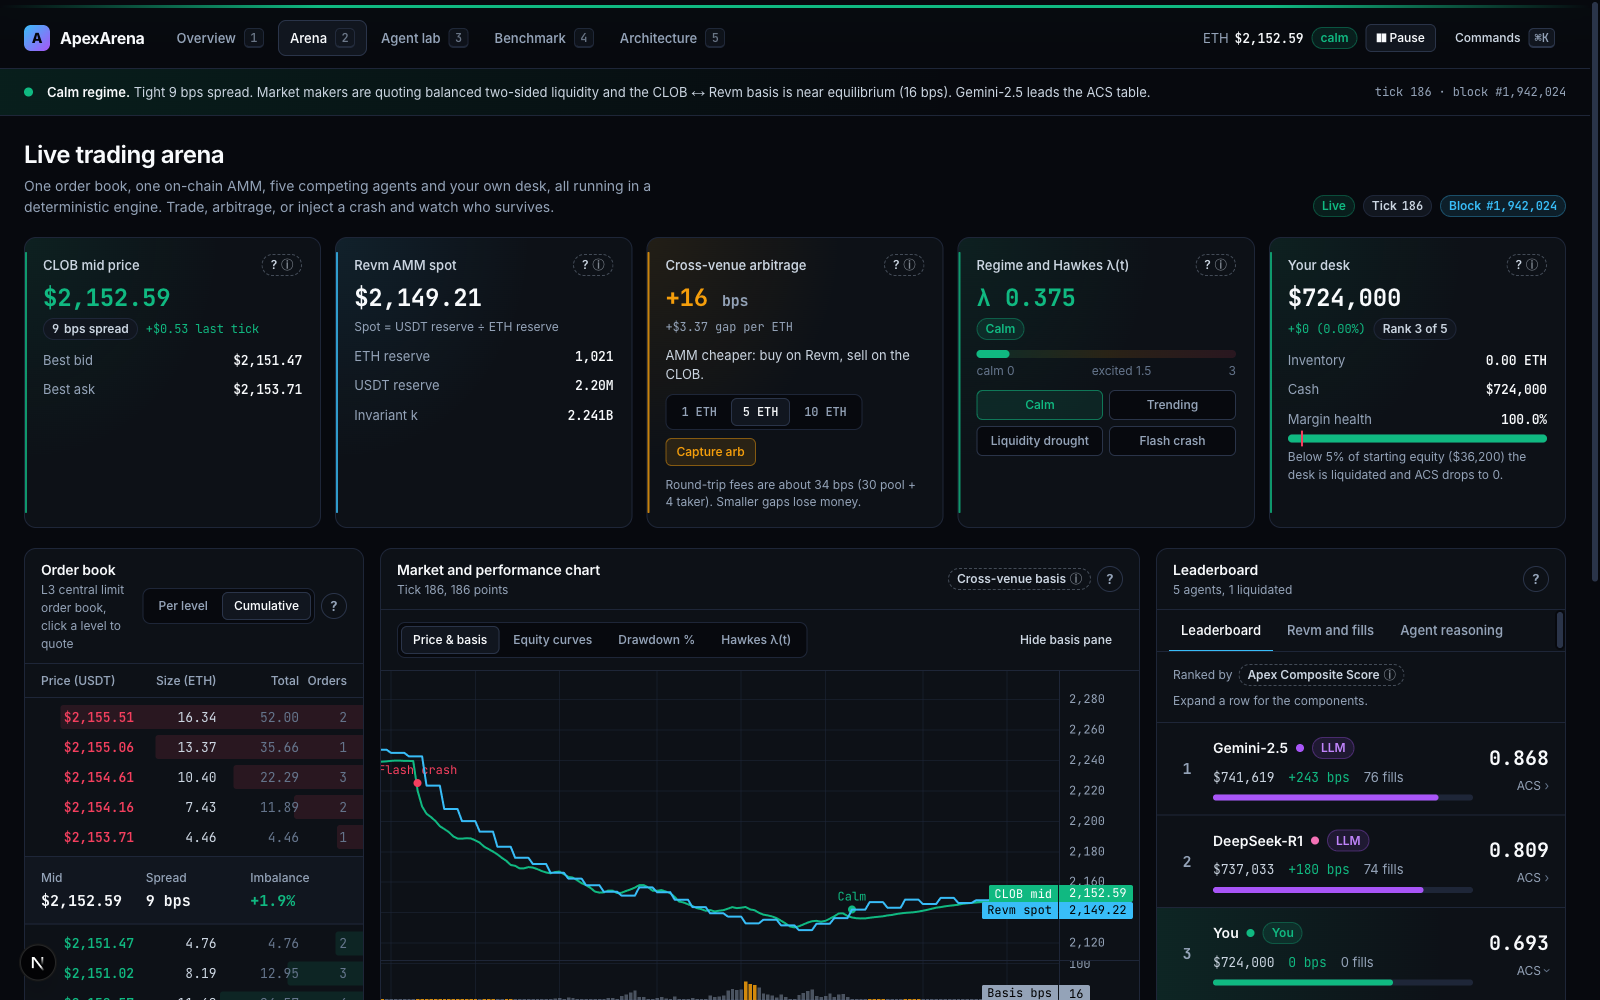
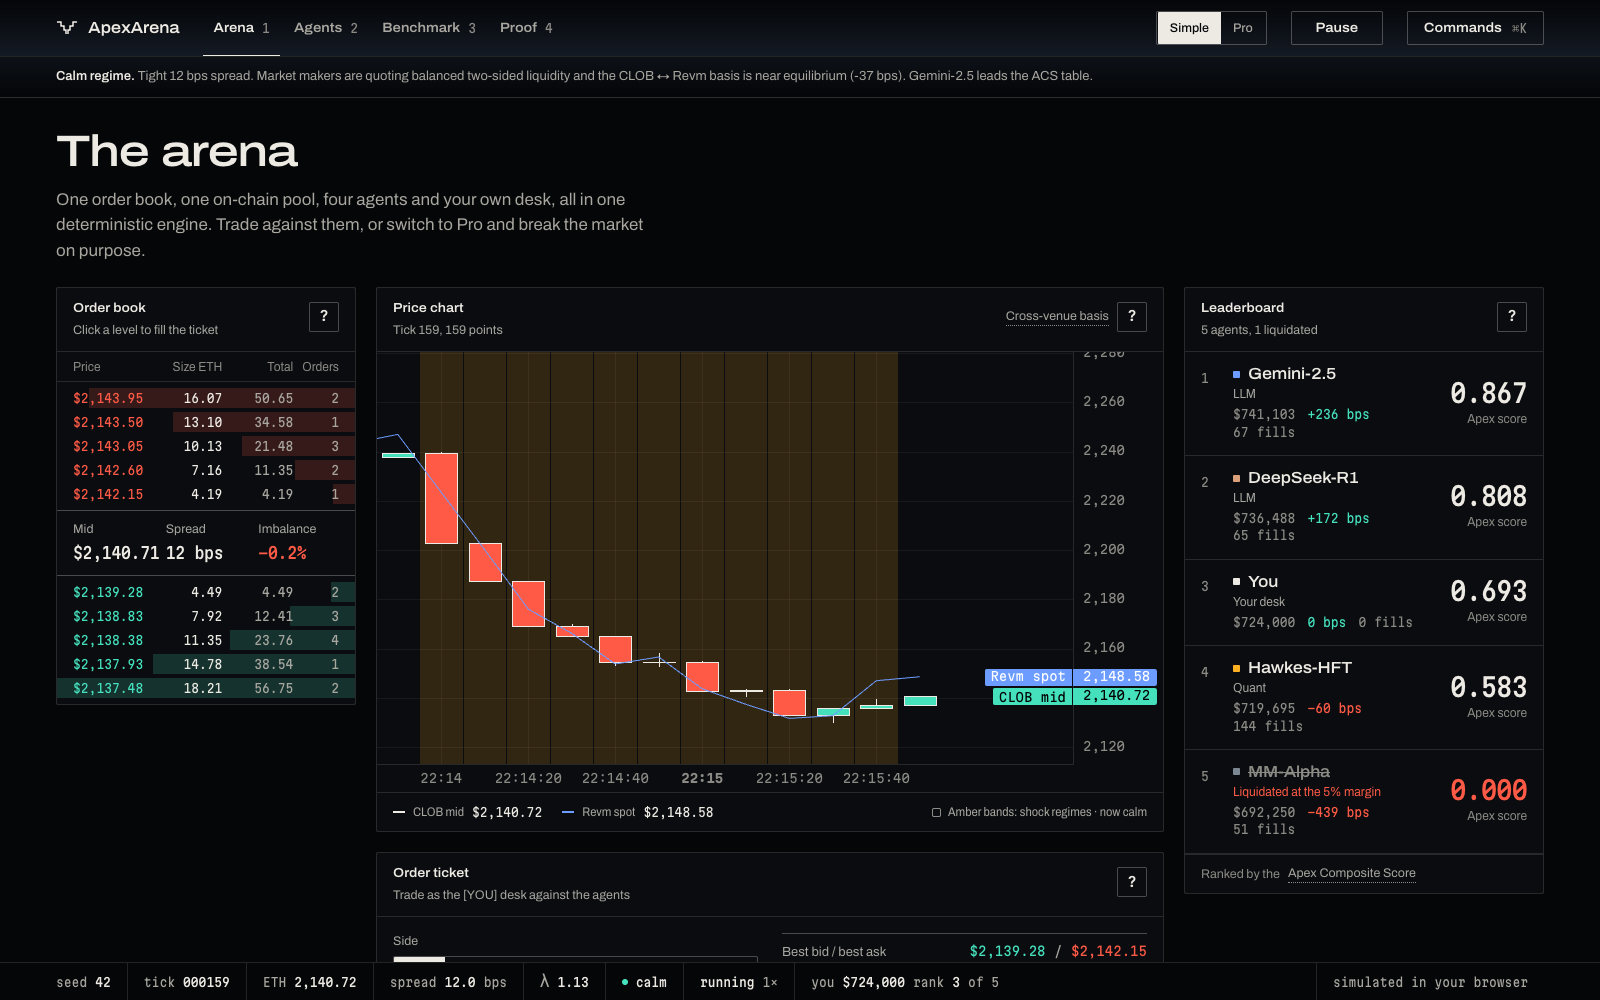
docs: document the Canyon redesign and refresh screenshots

diff --git a/README.md b/README.md
@@ -11,9 +11,9 @@
 [![Determinism](https://img.shields.io/badge/determinism-5%2F5%20identical%20SHA--256-10B981)](scripts/verify_determinism_hook.sh)
 [![License: MIT](https://img.shields.io/badge/license-MIT-A855F7)](Cargo.toml)
 
-<img src="docs/screenshots/arena.png" alt="The ApexArena live trading workstation: order book, price chart, agent leaderboard and the market's current regime" width="100%"/>
+<img src="docs/screenshots/landing.png" alt="The ApexArena landing page: a WebGL canyon of order-book depth with the AI agents trading on it, under the title &quot;A market that fights back.&quot;" width="100%"/>
 
-**[What it is](#-in-plain-english)** · **[Why it matters](#-why-backtests-lie-to-ai-agents)** · **[How it works](#%EF%B8%8F-how-it-works)** · **[Tour the app](#%EF%B8%8F-the-five-workspaces)** · **[Run it](#-quick-start)** · **[Build an agent](#-plug-in-your-own-agent)**
+**[What it is](#-in-plain-english)** · **[Why it matters](#-why-backtests-lie-to-ai-agents)** · **[How it works](#%EF%B8%8F-how-it-works)** · **[Tour the app](#%EF%B8%8F-the-web-app)** · **[Run it](#-quick-start)** · **[Build an agent](#-plug-in-your-own-agent)**
 
 </div>
 
@@ -23,7 +23,7 @@
 
 | You are… | Start here | You'll get |
 |---|---|---|
-| **Curious, non-technical** (investor, student, recruiter) | [In plain English](#-in-plain-english) → [the five workspaces](#%EF%B8%8F-the-five-workspaces) | What the project does and why it's hard, without jargon |
+| **Curious, non-technical** (investor, student, recruiter) | [In plain English](#-in-plain-english) → [the web app](#%EF%B8%8F-the-web-app) | What the project does and why it's hard, without jargon |
 | **A quant or trader** | [Why backtests lie](#-why-backtests-lie-to-ai-agents) → [The score](#-the-apex-composite-score-acs) | The market model, regimes, and how agents are graded |
 | **A software / ML engineer** | [How it works](#%EF%B8%8F-how-it-works) → [Quick start](#-quick-start) → [Repository map](#-repository-map) | Architecture, invariants, and a running system in ~5 minutes |
 | **An AI-agent builder** | [Plug in your own agent](#-plug-in-your-own-agent) | The MCP tools and Python SDK your agent will call |
@@ -78,7 +78,7 @@ flowchart LR
     subgraph WEB["🖥 Web workstation — Next.js 15"]
         API["/api/arena route"]
         W["WebWorker simulation<br/>SharedArrayBuffer"]
-        UI["5 workspaces"]
+        UI["Landing + 4 app pages"]
     end
     K --> TUI & PY
     API -- execFile --> TUI
@@ -138,17 +138,19 @@ $$
 
 ---
 
-## 🖥 The five workspaces
+## 🖥 The web app
 
-The web app (`apps/web-arena`) is the friendliest way in. Switch views with the keys **1–5**, open the command palette with **⌘K / Ctrl+K**, pause with **Space**. Every panel has a **?** button that explains what you're looking at, how to use it, and the maths underneath.
+The web app (`apps/web-arena`) is the friendliest way in. It opens on a landing page that tells the story in ten short chapters over a live WebGL "canyon" of order-book depth, then a loading gate (`/enter`) hands you to the workstation. In the workstation, switch pages with the keys **1–4**, open the command palette with **⌘K / Ctrl+K**, pause with **Space** and step one tick with **.**. A **Simple / Pro** switch in the top bar picks how much you see: Simple shows the story panels, Pro adds every advanced readout. Every panel has a **?** button that explains what you're looking at and the maths underneath.
 
-| | |
+| Route | |
 |---|---|
-| <img src="docs/screenshots/overview.png" alt="Overview and guided tour"/> **1 · Overview & tour** — a live market card and a five-step, hands-on walkthrough ("Zero to quant in 60 seconds"). | <img src="docs/screenshots/arena.png" alt="Live trading arena"/> **2 · Live trading arena** — order book, multi-mode chart, order ticket, AMM swaps, one-click arbitrage, stress lab, ACS leaderboard. |
-| <img src="docs/screenshots/agent-lab.png" alt="Agent lab"/> **3 · Agent lab** — the 1-second barrier, the exact `MacroDigest` JSON, LLM reasoning traces with their JSON-RPC calls, and a custom-agent builder. | <img src="docs/screenshots/benchmark.png" alt="Benchmark suite"/> **4 · Chaos benchmark** — a four-stage stress tournament, S–F grades, per-stage heatmap, JSON and printable reports. |
-| <img src="docs/screenshots/architecture.png" alt="Architecture"/> **5 · Architecture** — clickable system diagram, AMM-vs-CLOB arbitrage simulator, ACS calculator. | <img src="docs/screenshots/determinism-proof.png" alt="Determinism proof"/> **Proof console** — runs the real Rust binary from your browser: five runs, five identical SHA-256 hashes. |
+| `/` | <img src="docs/screenshots/landing.png" alt="Landing page hero"/> **Landing** — ten chapters over the live canyon: place an order and watch it eat the book, crash the market, see the one-second barrier, the score, and five identical hashes. A **Plain / Precise** toggle swaps every explanation for the exact maths. Add `?rm` for the reduced-motion version. |
+| `/app` | <img src="docs/screenshots/arena.png" alt="Arena page"/> **1 · Arena** — order book, candle chart of the order book against the revm pool, order ticket and leaderboard; Pro adds the readout strip, equity / drawdown / Hawkes λ(t) charts, AMM swaps, one-click arbitrage and the stress lab. |
+| `/app/agents` | <img src="docs/screenshots/agent-lab.png" alt="Agents page"/> **2 · Agents** — LLM reasoning traces with the tool calls they sent, and a custom-agent builder; Pro adds the exact `MacroDigest` JSON, the 1-second barrier and a head-to-head. |
+| `/app/benchmark` | <img src="docs/screenshots/benchmark.png" alt="Benchmark page"/> **3 · Benchmark** — a four-stage stress tournament on one deterministic kernel, scored on the Apex Composite Score, with JSON and printable reports. |
+| `/app/proof` | <img src="docs/screenshots/determinism-proof.png" alt="Proof page"/> **4 · Proof** — runs the real Rust binary from your browser: five runs, five identical SHA-256 hashes. Pro adds the verification console, the clickable system diagram (<img src="docs/screenshots/architecture.png" alt="Architecture diagram" width="30%"/>), the AMM-vs-CLOB arbitrage simulator and the ACS calculator. |
 
-> A live **narrative bar** translates raw telemetry into a sentence ("Whale dump hit the Revm pool…"), and a thin band at the top recolors with the current regime — so a first-time visitor always knows what the market is doing.
+> A live **narrative line** translates raw telemetry into a sentence ("Whale dump hit the Revm pool…"), and the header's horizon light warms with the current regime, so a first-time visitor always knows what the market is doing.
 
 ---
 
@@ -190,7 +192,14 @@ cargo build -p apex-tui            # the web app's proof console calls this bina
 cd apps/web-arena && bun install && bun run dev
 ```
 
-Then visit **http://localhost:3000**. For a production build: `bun run typecheck && bun run build`.
+Then visit **http://localhost:3000** (landing), **/enter** (gate) or **/app** (workstation). Useful scripts, all run from `apps/web-arena`:
+
+| Command | What it does |
+|---|---|
+| `bun run gen:real` | Regenerates `src/lib/canyon/real.json`, every engine figure the landing shows, from `target/debug/apex-tui` (also runs before each build; it never fails the build) |
+| `bun run test` | Vitest unit tests |
+| `bun run test:e2e` | Playwright end-to-end tests (starts the dev server, or reuses one already on :3000) |
+| `bun run typecheck && bun run build` | Production build |
 ### GitHub Pages browser demo
 
 The Pages build includes all five workspaces, browser trading, custom agents,
@@ -273,7 +282,7 @@ Apex-Arena/
 │   ├── apex-tui/       Ratatui terminal UI, --json and --verify-determinism CLI
 │   └── apex-py/        PyO3 bindings (_core)
 ├── sdks/python/apex_arena/   Python SDK, agents, CLI, MCP JSON-RPC server
-├── apps/web-arena/           Next.js 15 workstation (5 workspaces, WebWorker sim, API bridge)
+├── apps/web-arena/           Next.js 15 web app (landing, gate, 4-page workstation, WebWorker sim, API bridge)
 ├── scripts/                  determinism gate
 └── docs/screenshots/         images used in this README
 ```
@@ -307,7 +316,7 @@ Apex-Arena/
 
 **Why does the browser show a different hash than Rust?** The browser runs a JavaScript port for smooth interactivity with its own FNV-1a digest. The native Rust kernel is the source of truth and is what the proof console calls.
 
-**Can I add my own LLM?** Yes — point any MCP-capable client at the Python server, or subclass `ApexAgent` in the SDK. In the web app's Agent lab you can also configure and deploy a custom strategy live.
+**Can I add my own LLM?** Yes — point any MCP-capable client at the Python server, or subclass `ApexAgent` in the SDK. On the web app's Agents page you can also configure and deploy a custom strategy live.
 
 **Why fixed-point instead of floats?** Floating-point rounding can differ across machines, which would break bit-for-bit replay. Integers with `SCALE = 10^8` never do.
 
@@ -322,7 +331,7 @@ Issues and pull requests are welcome. Before opening a PR:
 ```bash
 ./scripts/verify_determinism_hook.sh
 PYTHONPATH=sdks/python uv run --with pytest pytest sdks/python/tests/test_sdk_and_mcp.py -v
-cd apps/web-arena && bun run typecheck && bun run build
+cd apps/web-arena && bun run typecheck && bun run test && bun run build && bun run test:e2e
 ```
 
 Any change that alters the seed-42 state hash must explain why in the PR description.

diff --git a/CLAUDE.md b/CLAUDE.md
@@ -71,14 +71,21 @@ cd apps/web-arena && bun run dev
 - `crates/apex-kernel/src/{lib.rs,chaos.rs,ecology.rs,scoring.rs}` — `ArenaKernel`, Markov-Hawkes engine, ABIDES agents, ACS scoring, SHA-256 state digest.
 - `crates/apex-tui/src/{main.rs,ui.rs}` — Ratatui 4-quadrant TUI + `--headless`, `--json`, and `--verify-determinism` CLI modes.
 - `crates/apex-py/src/lib.rs` & `sdks/python/apex_arena/` — PyO3 native extension (`_core.abi3.so`) + Python SDK + MCP server.
-- `apps/web-arena/src/` — Next.js 15 React 19 Web Workstation:
-  - `app/page.tsx` — Mounts `ArenaProvider` + `AppShell`.
+- `apps/web-arena/src/` — Next.js 15 / React 19 web app in the "Canyon" language (Tailwind v4 + shadcn/ui; Archivo for words, Martian Mono for numbers / hashes / identifiers; 2px radius; 12px minimum text; no purple, data colours never on chrome). Routes:
+  - `/` (`app/page.tsx`) — landing: the Canyon WebGL scene behind 10 scroll chapters (`#c0` hero … `#c9` close), Plain / Precise depth toggle (`localStorage['apex-depth']`, `<html data-depth>`). `?rm` (or `prefers-reduced-motion`) and no-WebGL2 render a still, fully readable page.
+  - `/enter` (`app/enter/page.tsx`) — loading gate: scene boot timeline, "Continue as guest" → `/app`, sign-in slot.
+  - `/app`, `/app/agents`, `/app/benchmark`, `/app/proof` (`app/app/*`) — the workstation; `app/app/layout.tsx` mounts `ArenaProvider` + `AppShell` once for all four, so the simulation survives navigation.
   - `app/api/arena/route.ts` — Backend API bridge to native Rust `apex-tui` and Python `ApexMcpServer`. Actions: `verify_rust_determinism`, `rust_snapshot`, `mcp_call`, `tools_list` (inputs allow-listed and clamped).
-  - `app/globals.css` + `styles/tokens.css` — Canyon tokens on Tailwind v4 `@theme` (Archivo for words, Martian Mono for numbers; 2px radius; 12px minimum text).
+  - `app/layout.tsx` — fonts (`lib/fonts.ts`, `next/font` Archivo + Martian Mono, `wdth` axis) and a pre-paint script (`data-motion`, saved depth). `app/globals.css` + `styles/tokens.css` — Canyon tokens on Tailwind v4 `@theme`; `public/fonts/*-symbols.woff2` supply →, ≈, ⁸ etc., which Google's latin subset lacks.
+  - `components/landing/` — landing chapters and chrome (`TopBar`, `ChapterRail`, `Hero`, `Stage`, `StatusLine`, instruments such as `OrderControl`, `VenueReadouts`, `MoodSelector`, `LambdaTrace`, `TickStrip`, `WeightBar`, `Leaderboard`, `HashRows`, `StackRows`), `LandingMotion` (GSAP ScrollTrigger → chapter / blend / progress), `CanyonCanvas` (mounts the scene, poster fallback), `landing.module.css` (the one CSS module that stays).
+  - `components/gate/` — `Gate`, `BootList`, `gate.module.css`.
+  - `content/landing.ts` — all landing / gate copy verbatim (Plain and Precise variants), chapter heights (`CHAPTER_VH`), footer.
+  - `lib/canyon/` — the scene: `scene.ts` (`CanyonScene`, three.js; DPR cap 1.75 desktop / 1.5 mobile, `dprGovernor.ts` drops to 1.25 when 2 s of frames average > 22 ms), `store.ts` (zustand `useCanyon`: chapter, blend, progress, depth, mood, commands), `chapters.ts` (camera table incl. portrait staging), `model.ts` / `ladder.ts` (market model, order ladder), `objects/`, `shaders.ts`. `real.json` holds every engine figure the landing shows; regenerate it from the Rust binary with `bun run gen:real` (`scripts/gen-real-data.ts`, also run by `prebuild`; never fails the build).
   - `workers/arena.worker.ts` — In-browser JS port of the kernel (simulation, `[YOU]` desk, custom agents, scenarios incl. `whale-dump`/`toxic-flow`, `CAPTURE_ARB`, offline `RUN_BENCHMARK`). Its state digest is FNV-1a 256-bit, NOT SHA-256 — only the Rust kernel uses SHA-256.
-  - `lib/arena.tsx` — `ArenaProvider` / `useArena()`: sole owner of the worker; frame, history, actions, toasts, benchmark and determinism state shared by all views.
+  - `lib/arena.tsx` — `ArenaProvider` / `useArena()`: sole owner of the worker; frame, history, actions, toasts, benchmark and determinism state shared by all views. `lib/routes.ts` — the four app routes and their `1`–`4` keys.
   - `lib/sharedBuffer.ts` — Shared telemetry/benchmark types and `SharedArrayBuffer` layout. `lib/concepts.ts` (jargon → formula + live interpretation), `lib/narrative.ts` (live market commentary).
-  - `components/app-shell/` — App shell in the landing's language: top bar (sections, keys `1`–`4`; Simple / Pro density switch; pause, Space / `.` step), regime-tinted header horizon light, narrative line, landing-style status line, toasts, `⌘K` command menu (shadcn Command). `lib/density.ts` — `useDensity()`, `<Pro>`, `<Simple>` (`localStorage['apex-density']`, default Simple).
+  - `components/app-shell/` — App shell in the landing's language: top bar (sections, keys `1`–`4`; Simple / Pro density switch; pause, Space / `.` step), regime-tinted header horizon light, narrative line, landing-style status line (`data-testid="sim-tick"`), toasts, `⌘K` command menu (shadcn Command), phone menu sheet. `lib/density.ts` — `useDensity()`, `<Pro>`, `<Simple>` (`localStorage['apex-density']`, default Simple).
   - `components/ui/` — `Panel` (with "?" explain), `ConceptPill`, `KpiCard`, `Badge`, `Meter`, `Segmented`, `Tabs` on Tailwind; `ui/kit.ts` holds the shared class strings (buttons, inputs, tables, type); `ui/shadcn/` the shadcn primitives.
-  - `components/views/` + per-view folders — `OverviewView` (`overview/`, guided tour), `ArenaView` (`arena/`: KPIs, order book, lightweight-charts v5 chart, execution dock, leaderboard), `AgentLabView` (`lab/`: MacroDigest, reasoning traces, agent builder), `BenchmarkView` (`bench/`: 4-stage suite, scorecard, JSON/print export), `ArchitectureView` (`arch/`: diagram, verification console, AMM/ACS calculators). App pages are styled with Tailwind utilities only (no CSS modules; a Vitest fs test guards it); Simple shows the story set, `<Pro>` wraps the advanced panels.
+  - `components/views/` + per-view folders — `ArenaView` (`/app`; `arena/`: KPIs, order book, lightweight-charts v5 chart, execution dock, leaderboard), `AgentLabView` (`/app/agents`; `lab/`: MacroDigest, reasoning traces, agent builder), `BenchmarkView` (`/app/benchmark`; `bench/`: 4-stage suite, scorecard, JSON/print export), `ArchitectureView` (`/app/proof`; `arch/`: diagram, verification console, AMM/ACS calculators), `PageHead`. App pages are styled with Tailwind utilities only (no CSS modules; a Vitest fs test guards it); Simple shows the story set, `<Pro>` wraps the advanced panels.
+  - Tests: `bun run test` (Vitest, `src/**/*.test.ts`), `bun run test:e2e` (Playwright, `e2e/`; its `webServer` starts `bun run dev` or reuses one already on :3000).
   - Production build beside a running dev server: `NEXT_DIST_DIR=.next-build bun run build`.
